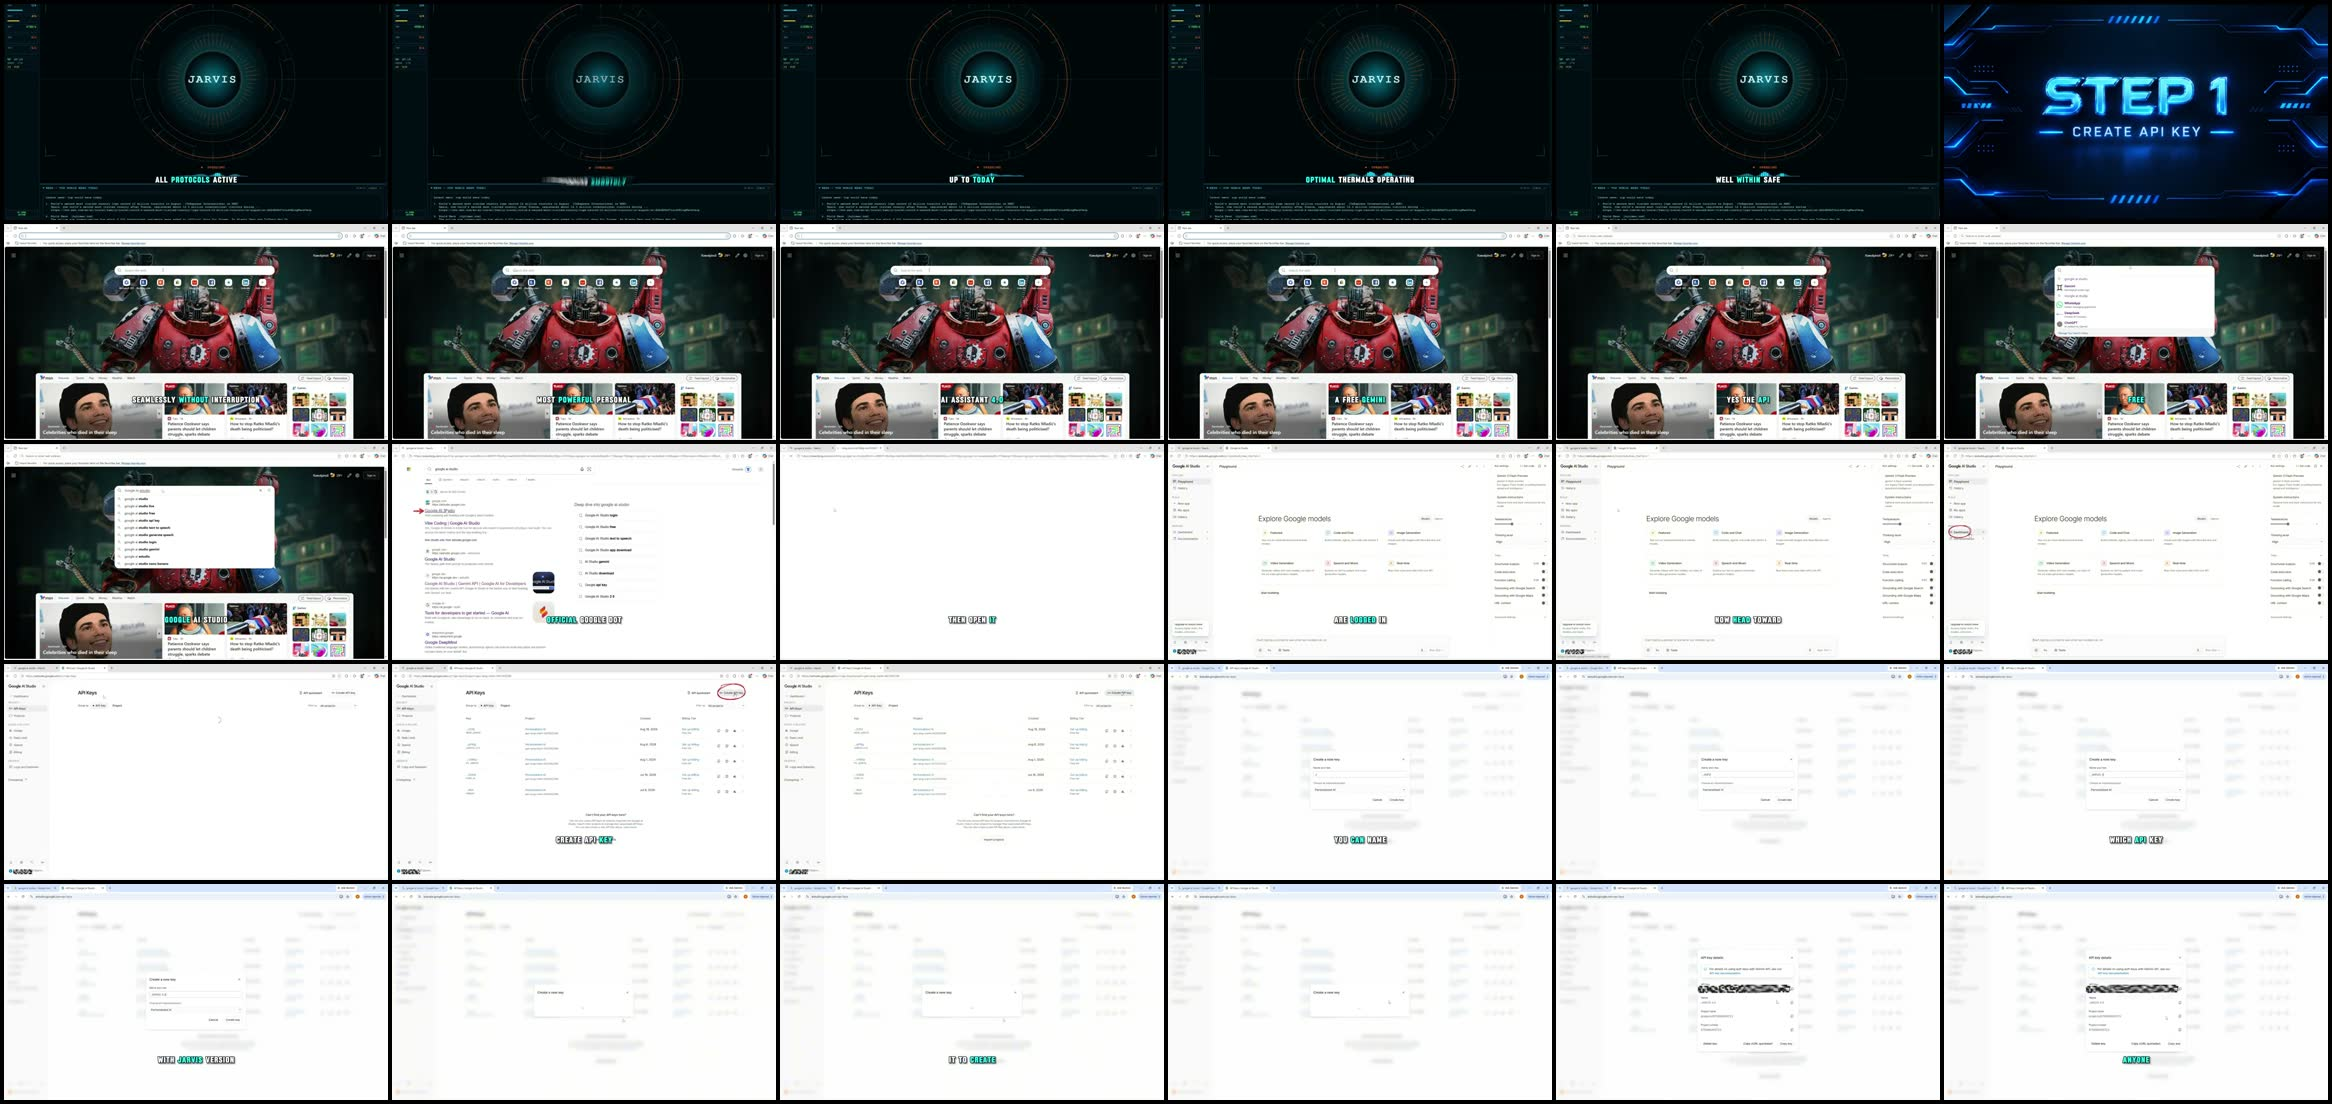
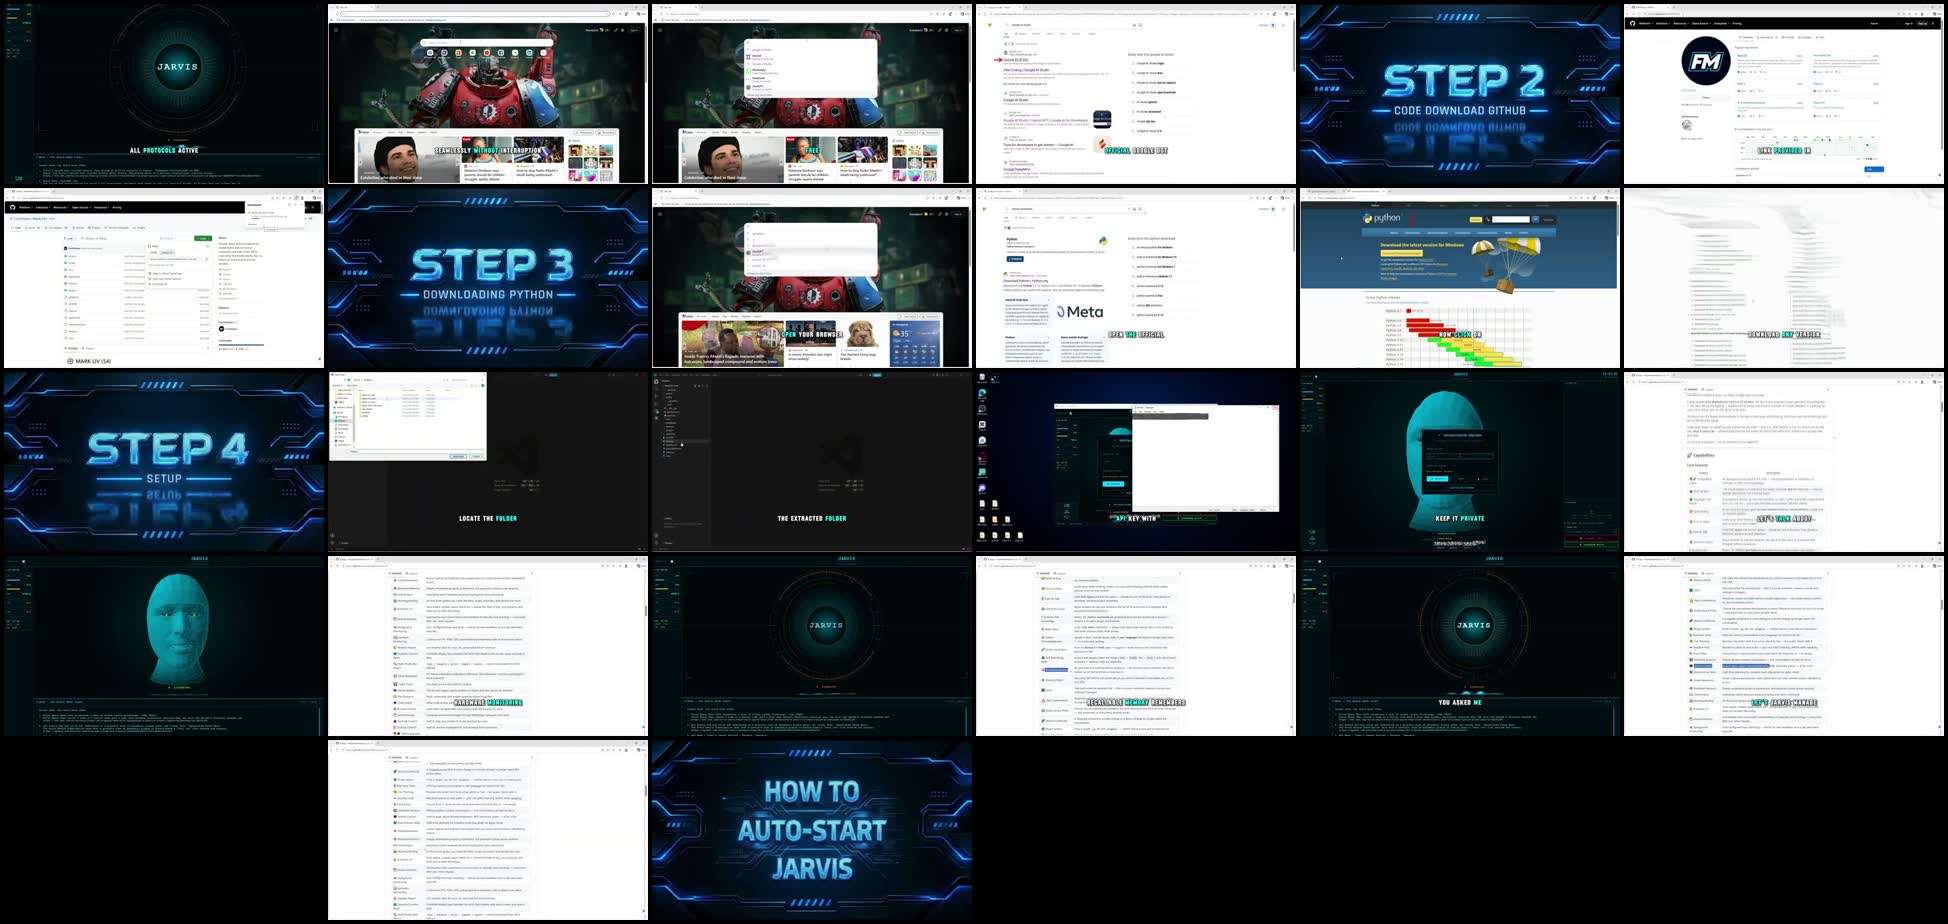
signals: SEyqYWQbGxc — 14 methods (youtube)
Ingested by Jarvis's signal engine.

diff --git a/docs/hive/outer-heaven/CONTENT/watch-later/packets/SEyqYWQbGxc/LEARNED.md b/docs/hive/outer-heaven/CONTENT/watch-later/packets/SEyqYWQbGxc/LEARNED.md
@@ -1,66 +1,107 @@
 # LEARNED — SEyqYWQbGxc
 Protocol: jarvis-signal-engine
 
-# Signal Analysis: JARVIS 4.0 AI Assistant
+# Source Map & Analysis: Build JARVIS 4.0 AI Assistant
 
-## A. Source Map
-- **00:00 - 00:10**: Introduction & Initial Voice Demo
-- **00:10 - 01:03**: Creating a free Gemini API Key via Google AI Studio
-- **01:03 - 01:48**: Downloading source code repository from GitHub (FatihMakes/Markel 4)
-- **01:48 - 02:40**: Downloading and installing Python (3.13 / >3.11) with PATH configuration
-- **02:40 - 04:14**: Setting up environment in VS Code (`py setup.py`) and running `py main.py` with initial configuration
-- **04:14 - 05:42**: Overview of capabilities (3D Animated Avatar, Hardware Monitoring, System Control, Recallable Memory)
-- **05:42 - 06:11**: Configuring Auto-Start setting and Outro
+### A. Source Map
+- **00:00** - Intro & Live Assistant Demo (Cyan HUD core, system telemetry readout, news feed display).
+- **00:10** - Creating a free Gemini API Key via Google AI Studio (`aistudio.google.com`).
+- **01:03** - Downloading JARVIS Source Code from GitHub (`github.com/FatihMakes/Mark-LIV`).
+- **01:48** - Downloading and Installing Python (>3.11) with PATH enabling.
+- **02:40** - VS Code Setup: Opening project folder, executing `py setup.py` for dependencies, running `py main.py`.
+- **03:45** - Initial GUI Configuration: Entering Gemini API Key and selecting target OS (Windows/macOS/Linux).
+- **04:14** - Capability Walkthrough: Holographic 3D Mesh Avatar, Formant Lip Sync, Hardware Telemetry, Recallable Memory, Voice OS Automation.
+- **05:42** - Setting up Assistant Auto-Start on System Boot.
+- **06:11** - Outro & Credit (@FatihMakes).
 
-## B. Atomic Knowledge
-- **Claim**: Gemini API keys are free via Google AI Studio.
-  - **Why**: Google provides free tier API access for developer evaluation.
-  - **Conditions**: Requires a Google account login.
-  - **Evidence**: Shown on screen during key creation flow.
-  - **Label**: SOURCE
-- **Claim**: Python must be added to PATH during installation.
-  - **Why**: Allows execution of `py` and `python` commands from any terminal directory.
-  - **Conditions**: Checkbox 'Add python.exe to PATH' must be selected during Windows installer setup.
-  - **Evidence**: Highlighted explicitly in transcript and video overlay.
-  - **Label**: SOURCE
+---
 
-## C. Procedures as Ordered Steps
-1. Navigate to Google AI Studio, log in, create a new API key named `Jarvis 4.0`, and copy it.
-2. Visit GitHub user `FatihMakes`, navigate to `Markel 4`, click `Code` -> `Download ZIP`, and extract files.
-3. Download Python 3.11+ (demonstrated with 3.13) from python.org, run installer, checking `Add python.exe to PATH` before installing.
-4. Open VS Code, open the extracted project directory, launch terminal, run `py setup.py` to install dependencies.
-5. Launch application via `py main.py`, paste API key, select OS platform, and click initialize.
+### B. Atomic Knowledge
+- **Gemini API Key Generation**: Gemini API keys are obtainable without cost via Google AI Studio dashboard (`aistudio.google.com`). `[SOURCE: SAID & SHOWN 00:18-00:45]`
+- **Python PATH Requirement**: Windows environment execution via terminal `py` requires selecting "Add python.exe to PATH" during Python installation. `[SOURCE: SAID & SHOWN 02:21-02:26]`
+- **Software-Rendered 3D Avatar**: `Mark-LIV` utilizes a software-generated wireframe head geometry HUD requiring zero GPU/heavy game engine dependencies while animating at 50 mouth shapes/sec via formant analysis. `[SOURCE: SHOWN 04:16 README]`
+- **OS Telemetry Tracking**: Telemetry tracks CPU, RAM, GPU, thermals, and uptime natively to deliver real-time voice status updates. `[SOURCE: SAID & SHOWN 04:46-04:55]`
 
-## D. Shown on Screen
-- **00:10 - 01:03**: Browser showing Google AI Studio dashboard and API key creation modal.
-- **01:03 - 01:48**: GitHub repository page (`FatihMakes/Markel 4`), ZIP download menu, Windows Explorer extraction.
-- **01:48 - 02:40**: Python download page on python.org and Windows installer dialog showing PATH checkbox.
-- **02:40 - 04:14**: Visual Studio Code editor, integrated terminal running `py setup.py` and `py main.py`, and the futuristic JARVIS GUI overlay.
-- **04:14 - 05:42**: 3D animated blue human avatar head performing lip-sync and Markdown text documentation listing capabilities.
+---
 
-## E. Said vs Shown Mismatches
-- Narrator states version downloaded as Python `3.13.14` orally, while screen displays standard release packages around 3.13.
-- Project repository name stated as `Markel 4` on screen/GitHub while narrated/marketed primarily as `JARVIS 4.0`.
+### C. Procedures as Ordered Steps
 
-## F. Failures and Recoveries
-- Potential PATH resolution issues prevented by checking `Add python.exe to PATH` during setup.
+#### 1. Gemini API Key Acquisition
+1. Navigate browser to `aistudio.google.com` and log in.
+2. Click **Create API key** on the dashboard.
+3. Name the key (e.g., `Jarvis version 4.0`).
+4. Copy the key and temporarily save it in a text file.
 
-## G. Decision Points (IF -> THEN)
-- **IF** installing on Windows **THEN** select `Windows` option during `main.py` GUI setup prompt.
-- **IF** user wants JARVIS to run on startup **THEN** toggle `Auto Start` switch inside UI Settings menu.
+#### 2. Environment & Code Installation
+1. Download Python 3.11+ installer from `python.org`.
+2. Run installer, check **Add python.exe to PATH**, and click **Install Now**.
+3. Visit `github.com/FatihMakes` and select the `Mark-LIV` repository.
+4. Click **Code** -> **Download ZIP** and extract the archive to local disk.
 
-## H. Tools / Repos / MCPs Named
-- **Google AI Studio / Gemini API**: LLM backbone provider.
-- **GitHub (FatihMakes/Markel 4)**: Open-source repository hosting JARVIS codebase.
-- **VS Code**: IDE used to manage and launch Python scripts.
-- **Python 3.11+**: Runtime environment.
+#### 3. Execution & Initialization
+1. Open Visual Studio Code, go to **File** -> **Open Folder**, and choose `Mark-LIV-main`.
+2. Open VS Code Terminal (**Terminal** -> **New Terminal**).
+3. Run `py setup.py` to install required dependencies.
+4. Run `py main.py` to launch the assistant GUI.
+5. Paste the saved Gemini API key into the key field.
+6. Select host operating system (Windows / macOS / Linux) and click **Initialize Systems**.
 
-## I. Challenges
-- Hardware sensor monitoring (thermals/CPU/RAM) may require platform-specific permissions or drivers that fail silently or return incomplete data.
-- Storing API keys directly in local UI dialogs without encryption standard practice checks.
+---
 
-## J. Use for Jarvis
-- Serves as a reference implementation for integrating real-time voice UI with local system execution scripts and desktop UI auto-launching.
+### D. Shown on Screen
+- **00:00 - 00:10**: Custom dark cyan HUD with central circle "JARVIS", CPU/RAM telemetry bars on left top, news ticker on bottom panel.
+- **00:26 - 00:54**: Bing search pointing to Google AI Studio; API key dialog box in Google AI Studio.
+- **01:06 - 01:34**: GitHub user profile `FatihMakes` listing repositories (`Mark-LIV`, `Mark XXXX-OR`, `Mark X`). Downloading `Mark-LIV-main.zip`.
+- **02:00 - 02:24**: Download page on `python.org` showing active Python releases chart; Windows installer dialog with "Add python.exe to PATH" checkbox highlighted.
+- **02:50 - 03:07**: VS Code file sidebar containing `actions/`, `config/`, `core/`, `dashboard/`, `memory/`, `plugins/`, `api_keys.json`, `main.py`, `setup.py`, `ui.py`.
+- **03:52 - 04:06**: Dark GUI popup overlay with title `INITIALISATION REQUIRED`, text box `Gemini API Key`, OS selector buttons (`Windows`, `macOS`, `Linux`), and blue `Initialize` button.
+- **04:30**: 3D wireframe head avatar in light cyan mesh with glowing green eyes and status indicator `LISTENING` / `SPEAKING`.
+- **04:16, 04:40, 04:58, 05:14, 05:32**: README document scrolling through capabilities table (Holographic Avatar, Real Lip-Sync, Hardware Monitoring, Recallable Memory, System Control, Session Continuity).
+- **05:42**: Title slide "HOW TO AUTO-START JARVIS".
 
-## K. Open Questions
-- Which specific speech synthesis engine and 3D rendering library are utilized for the real-time lip-synced avatar?
+---
+
+### E. Said vs Shown Mismatches
+- **Repo Name**: Audio says "click on Markel 4", but the screen clearly displays GitHub repository `Mark-LIV` (Roman numeral LIV = 54).
+- **Python Version**: Audio claims downloading Python "3.13.14", whereas screen shows generic python.org downloads page.
+- **Auto-Start Config**: Audio describes clicking a settings icon in the top left corner of the assistant window to toggle auto-start, but the screen only shows a title graphic card ("HOW TO AUTO-START JARVIS") and never demonstrates the actual UI interaction.
+
+---
+
+### F. Failures and Recoveries
+- **Missing PATH Entry**: If terminal fails to recognize `py` commands during `setup.py` execution, re-run Python installer and ensure "Add python.exe to PATH" is explicitly checked.
+- **API Key Prompt**: If no API key configuration exists on launch, `main.py` pops up an interactive modal dialog allowing key entry without manually editing source code.
+
+---
+
+### G. Decision Points (IF -> THEN)
+- **IF** installing on Windows **THEN** select `Windows` radio button in `main.py` GUI startup wizard.
+- **IF** installing on macOS or Linux **THEN** select `macOS` or `Linux` in `main.py` GUI startup wizard to route platform-specific commands.
+
+---
+
+### H. Tools/Repos/MCPs Named
+- **Google AI Studio**: Cloud platform for generating Gemini API keys.
+- **FatihMakes/Mark-LIV**: Open-source GitHub repository housing the JARVIS assistant codebase.
+- **Python 3.11+**: Primary backend execution runtime.
+- **Visual Studio Code**: IDE used for dependency setup and launching scripts.
+- **Gemini API**: Core language model backend for voice responses and reasoning.
+
+---
+
+### I. Challenges & Hype Analysis
+- **Timestamp Hype**: Video title uses "2026 Tutorial" for hype/SEO.
+- **Gemini Versioning**: README lists feature descriptions mentioning "Gemini 3.1 Flash Live", which is non-standard naming for current production Gemini API tiers.
+- **System Privileges**: Voice OS automation grants direct script control over application execution and file listings, requiring security boundary awareness.
+
+---
+
+### J. Use for Jarvis (Mac Operator Application)
+- **Mac Adaptation**: Port `Mark-LIV`'s modular plugin architecture (`plugins/` directory) to macOS by swapping Windows shell calls with native AppleScript/`osascript` commands.
+- **Launch Persistence**: Replace Windows Auto-Start registry setting with a custom macOS `launchd` plist / `LaunchAgent` daemon.
+
+---
+
+### K. Open Questions
+- What specific local storage engine (SQLite, Chroma, or JSON file) does `Mark-LIV` use to manage recallable conversation memory?
+- How does the 50Hz formant lip-sync algorithm convert audio streams to UI mesh deformations in real time without GPU acceleration?

diff --git a/docs/hive/outer-heaven/CONTENT/watch-later/packets/SEyqYWQbGxc/sheets/INDEX.md b/docs/hive/outer-heaven/CONTENT/watch-later/packets/SEyqYWQbGxc/sheets/INDEX.md
@@ -1,8 +1,2 @@
-One frame every 2 s, 6 across x 5 down, read left to right then top to bottom.
-- sheet_001.jpg: 00:00 to 01:00
-- sheet_002.jpg: 01:00 to 02:00
-- sheet_003.jpg: 02:00 to 03:00
-- sheet_004.jpg: 03:00 to 04:00
-- sheet_005.jpg: 04:00 to 05:00
-- sheet_006.jpg: 05:00 to 06:00
-- sheet_007.jpg: 06:00 to 07:00
+Looked at one frame every 2 s; kept 27 frames where the screen changed. 6 across x 5 down, left to right then top to bottom.
+- sheet_001.jpg: 00:00, 00:12, 00:22, 00:26, 01:04, 01:06, 01:34, 01:48, 01:50, 01:56, 02:00, 02:04, 02:40, 02:50, 02:54, 03:52, 03:54, 04:16, 04:30, 04:40, 04:46, 04:58, 05:06, 05:14, 05:20, 05:32, 05:42

diff --git a/docs/hive/outer-heaven/CONTENT/watch-later/packets/SEyqYWQbGxc/PACKET.md b/docs/hive/outer-heaven/CONTENT/watch-later/packets/SEyqYWQbGxc/PACKET.md
@@ -3,7 +3,7 @@ Protocol: jarvis-signal-engine (Jarvis's own pass; Researcher contract: whole so
 **Source:** https://www.youtube.com/watch?v=SEyqYWQbGxc
 **Title:** Build JARVIS 4.0 AI Assistant | Voice, Memory & PC Control (Full Tutorial 2026)
 **Kind:** youtube · channel J.A.R.V.I.S · 383 s · uploaded 20261009
-**Ingested:** 2026-10-16 15:12 by Jarvis
-**Contact sheets:** 7 (one frame every 2 s, 6x5 per sheet)
-**Methods:** 2 (methods.jsonl)
+**Ingested:** 2026-10-16 16:54 by Jarvis
+**Contact sheets:** 1 (one frame every 2 s, 6x5 per sheet)
+**Methods:** 14 (methods.jsonl)
 **Links:** https://github.com/FatihMakes
